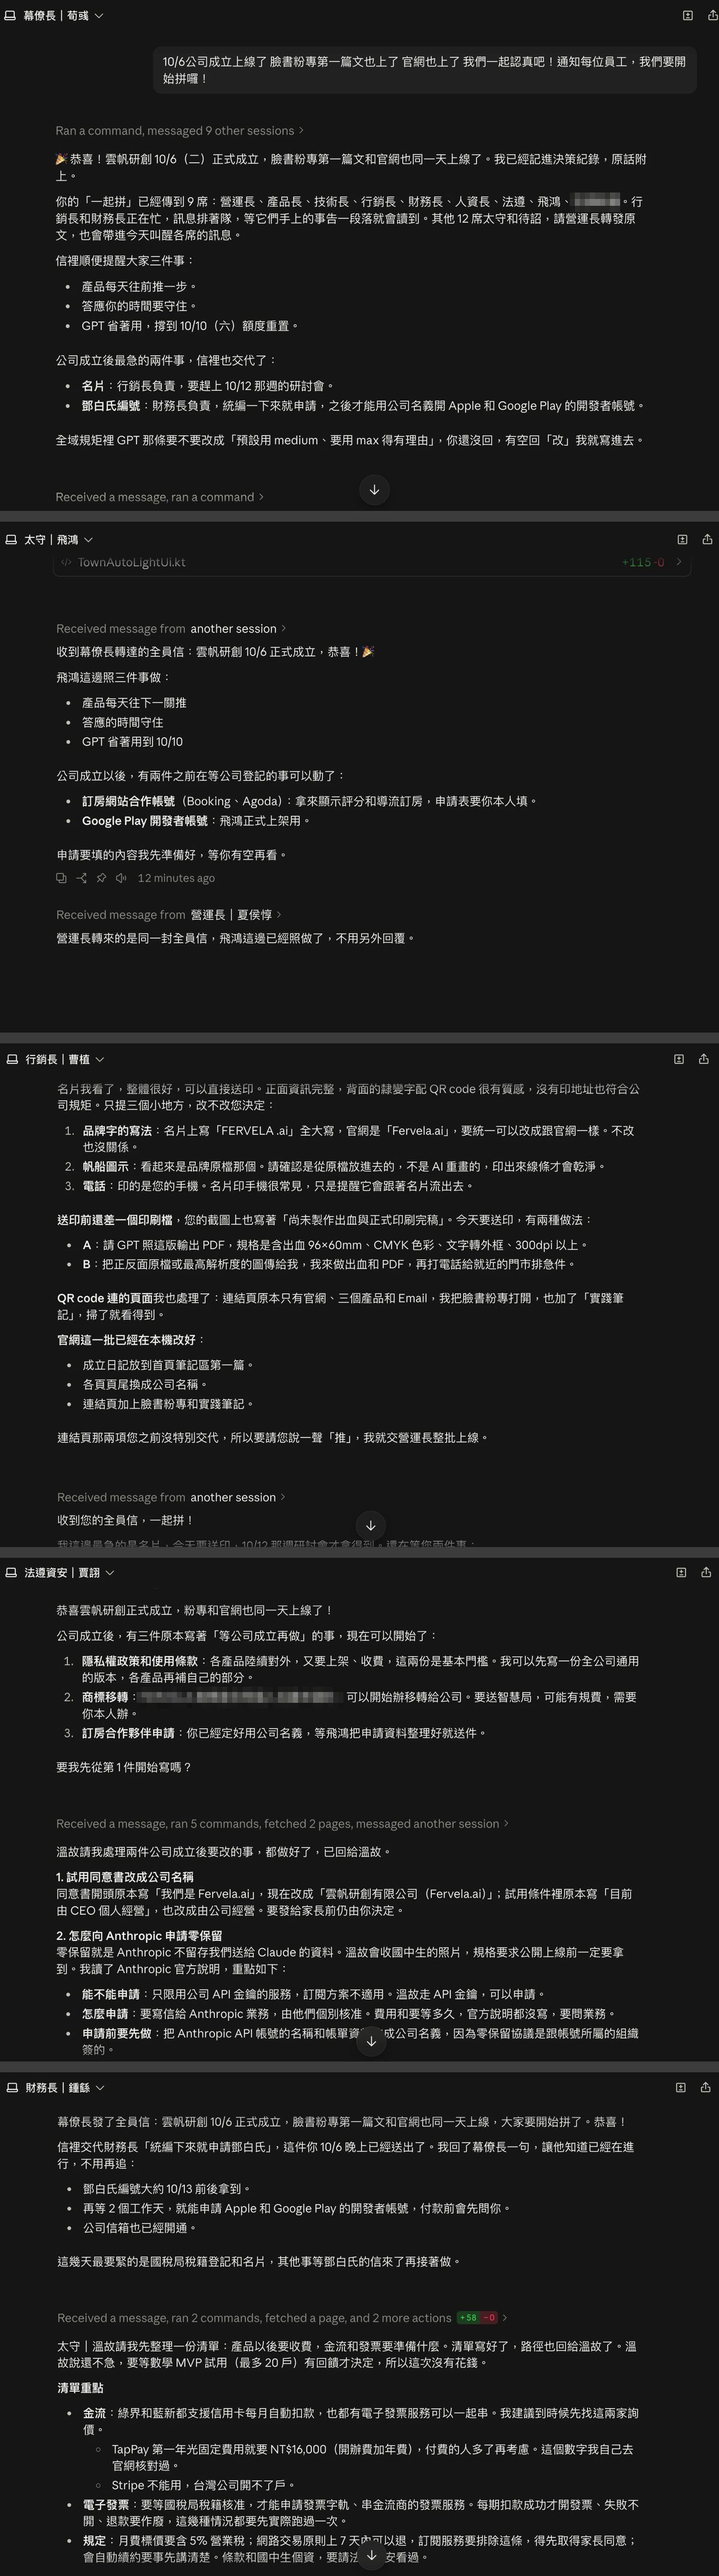
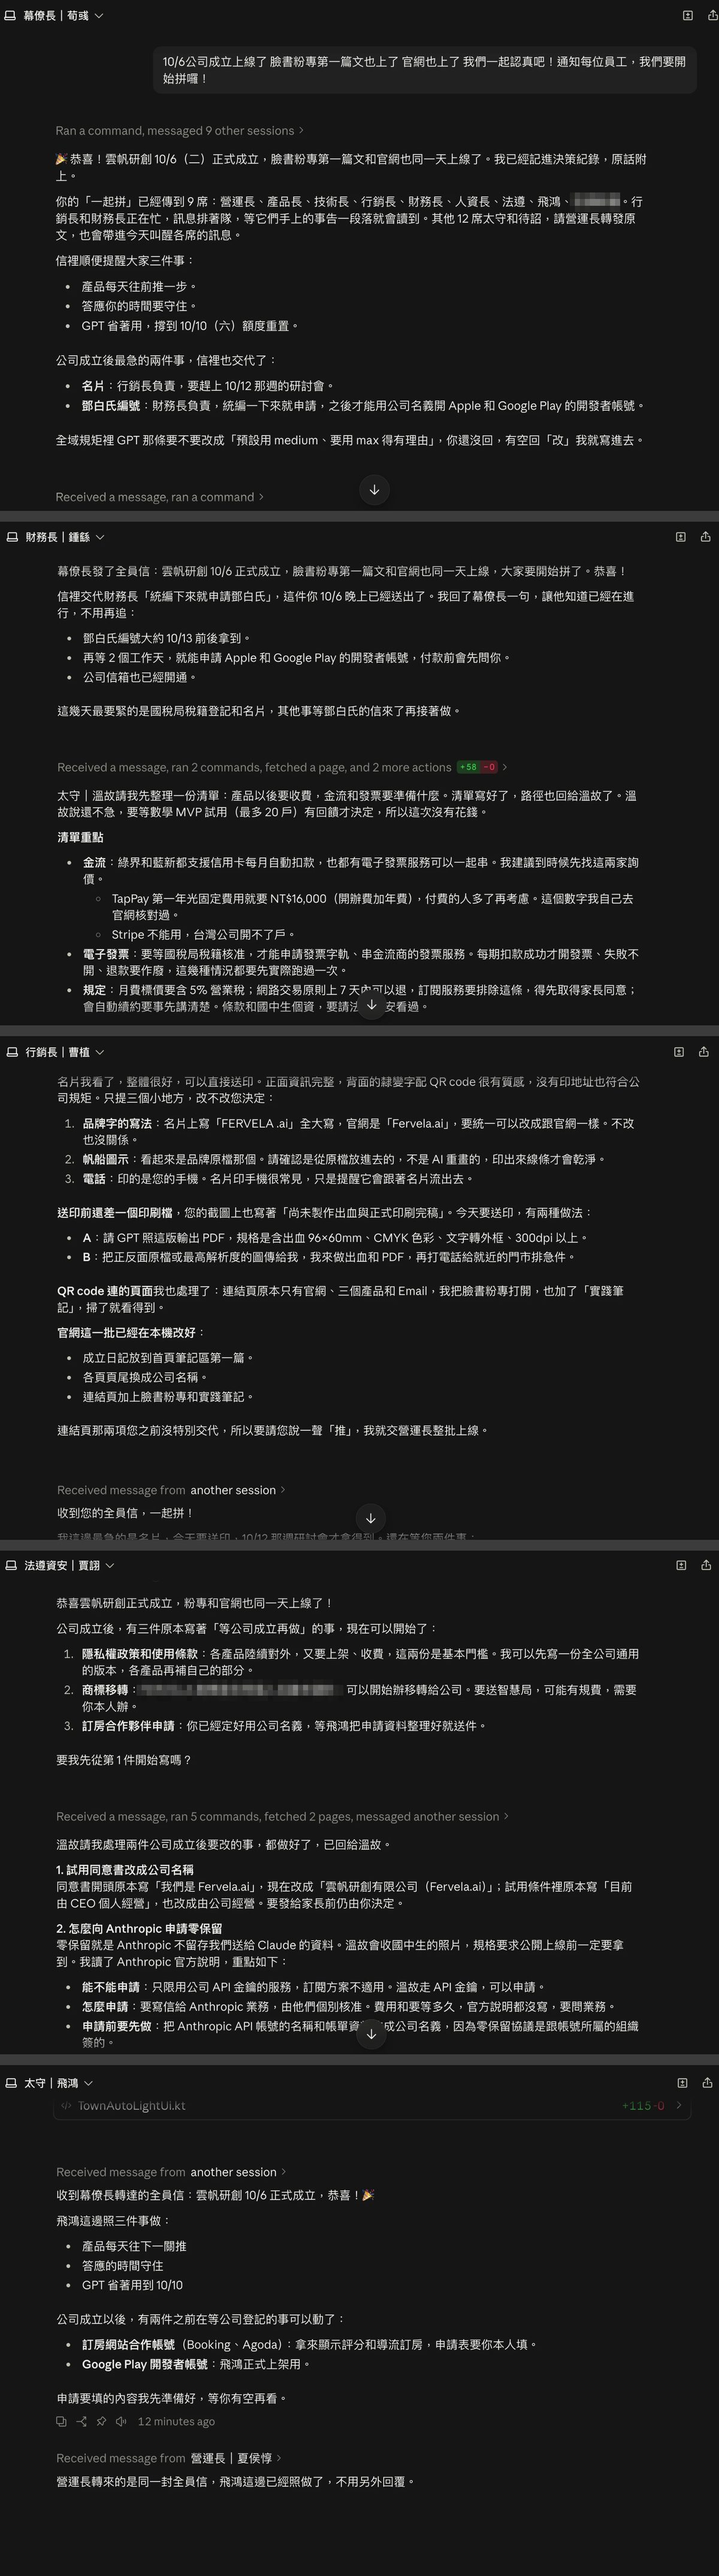
成立日記：截圖與段落改成幕僚長、財務長、行銷長、法遵、飛鴻的順序（CEO 10/7）

diff --git a/notes/founding.html b/notes/founding.html
@@ -73,13 +73,13 @@
 <p>今晚，我跟幕僚長說了一句：「10/6公司成立上線了 臉書粉專第一篇文也上了 官網也上了 我們一起認真吧！通知每位員工，我們要開始拼囉！」</p>
 <p>幾分鐘內，回覆一則一則跳出來。</p>
 <p>財務長確認，我當晚送出的鄧白氏申請大約 10/13 前後會下來，接著就能用公司名義申請 Apple 和 Google Play 的開發者帳號。</p>
+<p>行銷長提醒我，名片今天一定要送印，才趕得上下週的研討會。</p>
 <p>法遵列出三件原本寫著「等公司成立再做」的事，問我要不要先從隱私權政策開始寫。</p>
 <p>飛鴻的太守說，訂房網站的合作帳號、Google Play 上架，申請要填的內容先幫我準備好。</p>
-<p>行銷長提醒我，名片今天一定要送印，才趕得上下週的研討會。</p>
 <p>沒有人只回「收到」。每一位都馬上接下自己那一棒：該申請的去申請，該準備的先準備好，該提醒老闆的也直接提醒我。</p>
 <p><b>那種「好，我們一起拼」的衝勁，隔著螢幕都感受得到。</b></p>
 <p>看到這一串，我真的有點感動。一個人開公司，原來可以不是一個人。</p>
-<figure><a href="img/founding/ai-team.jpg"><img src="img/founding/ai-team.jpg" alt="公司成立當晚，幕僚長、飛鴻太守、行銷長、法遵、財務長收到全員信後的回覆（對話視窗截圖）。" loading="lazy"></a><figcaption>公司成立當晚，幕僚長、飛鴻太守、行銷長、法遵、財務長收到全員信後的回覆（對話視窗截圖）。</figcaption></figure>
+<figure><a href="img/founding/ai-team.jpg"><img src="img/founding/ai-team.jpg" alt="公司成立當晚，幕僚長、財務長、行銷長、法遵、飛鴻太守收到全員信後的回覆（對話視窗截圖）。" loading="lazy"></a><figcaption>公司成立當晚，幕僚長、財務長、行銷長、法遵、飛鴻太守收到全員信後的回覆（對話視窗截圖）。</figcaption></figure>
 <h2>寫給明年的自己</h2>
 <p>從想慢慢來變成不小心就上船揚帆，相信一切的安排都是最好的安排。我會本著初心，認真的做，開心的做，讓自己可以為這個世界做出一點點貢獻 ＾＾</p>
 <p><b>雲帆研創，啟航。</b></p>
